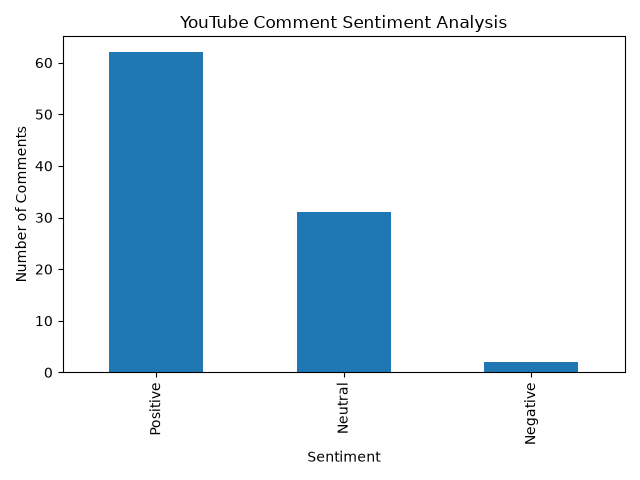
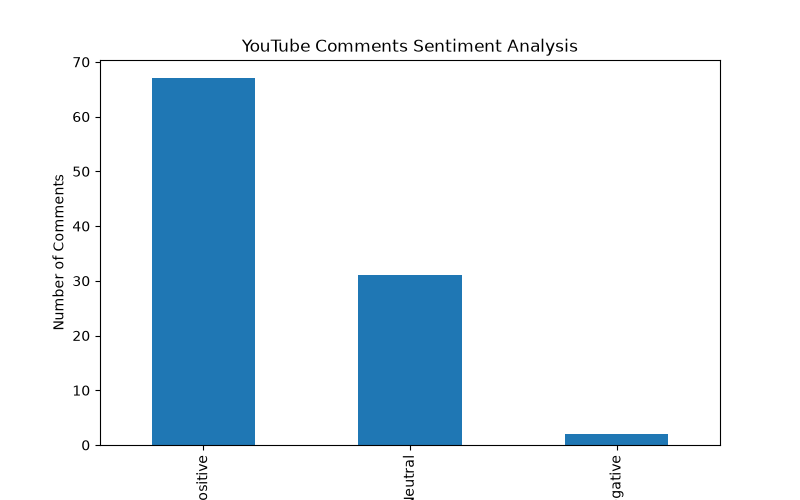
Added Docker support and completed sentiment analysis pipeline

Changed region(s): [[0.0625, 0.0312, 0.9062, 1.0], [0.0312, 0.2812, 0.125, 0.6875], [0.0625, 0.2188, 0.125, 0.25]]

diff --git a/src/visualization.py b/src/visualization.py
@@ -1,8 +1,8 @@
 import pandas as pd
 import matplotlib.pyplot as plt
 
-# Load sentiment data
-df = pd.read_csv("data/cleaned_sentiment_results.csv")
+# Load sentiment results
+df = pd.read_csv("data/sentiment_results.csv")
 
 # Count sentiments
 sentiment_counts = df["sentiment"].value_counts()
@@ -10,16 +10,17 @@ sentiment_counts = df["sentiment"].value_counts()
 print("Sentiment Summary:")
 print(sentiment_counts)
 
-# Create bar chart
+# Create chart
+plt.figure(figsize=(8, 5))
 sentiment_counts.plot(kind="bar")
 
-plt.title("YouTube Comment Sentiment Analysis")
+plt.title("YouTube Comments Sentiment Analysis")
 plt.xlabel("Sentiment")
 plt.ylabel("Number of Comments")
-
-plt.tight_layout()
 
 # Save chart
 plt.savefig("data/sentiment_chart.png")
 
-plt.show()
+print("Chart saved successfully as data/sentiment_chart.png")
+
+plt.close()
